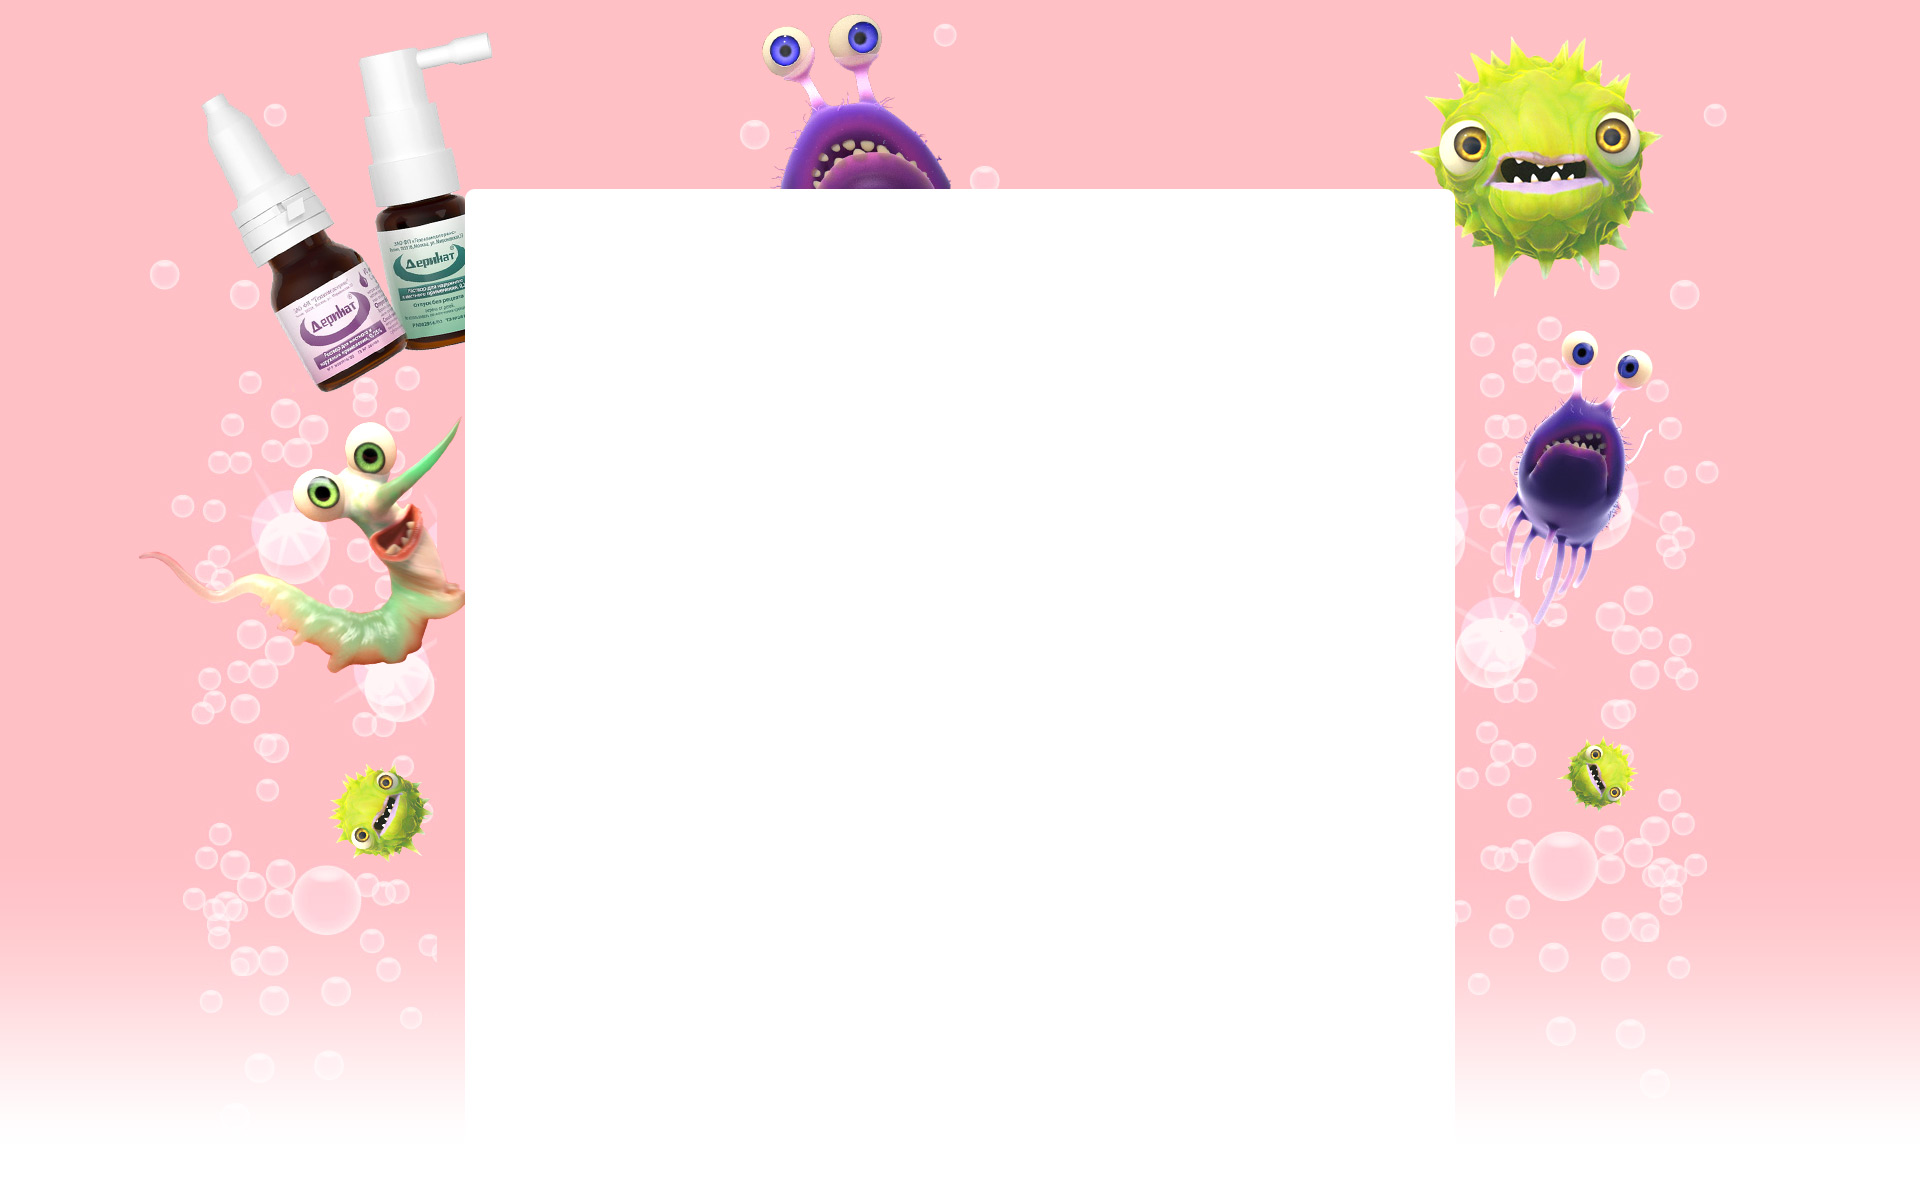
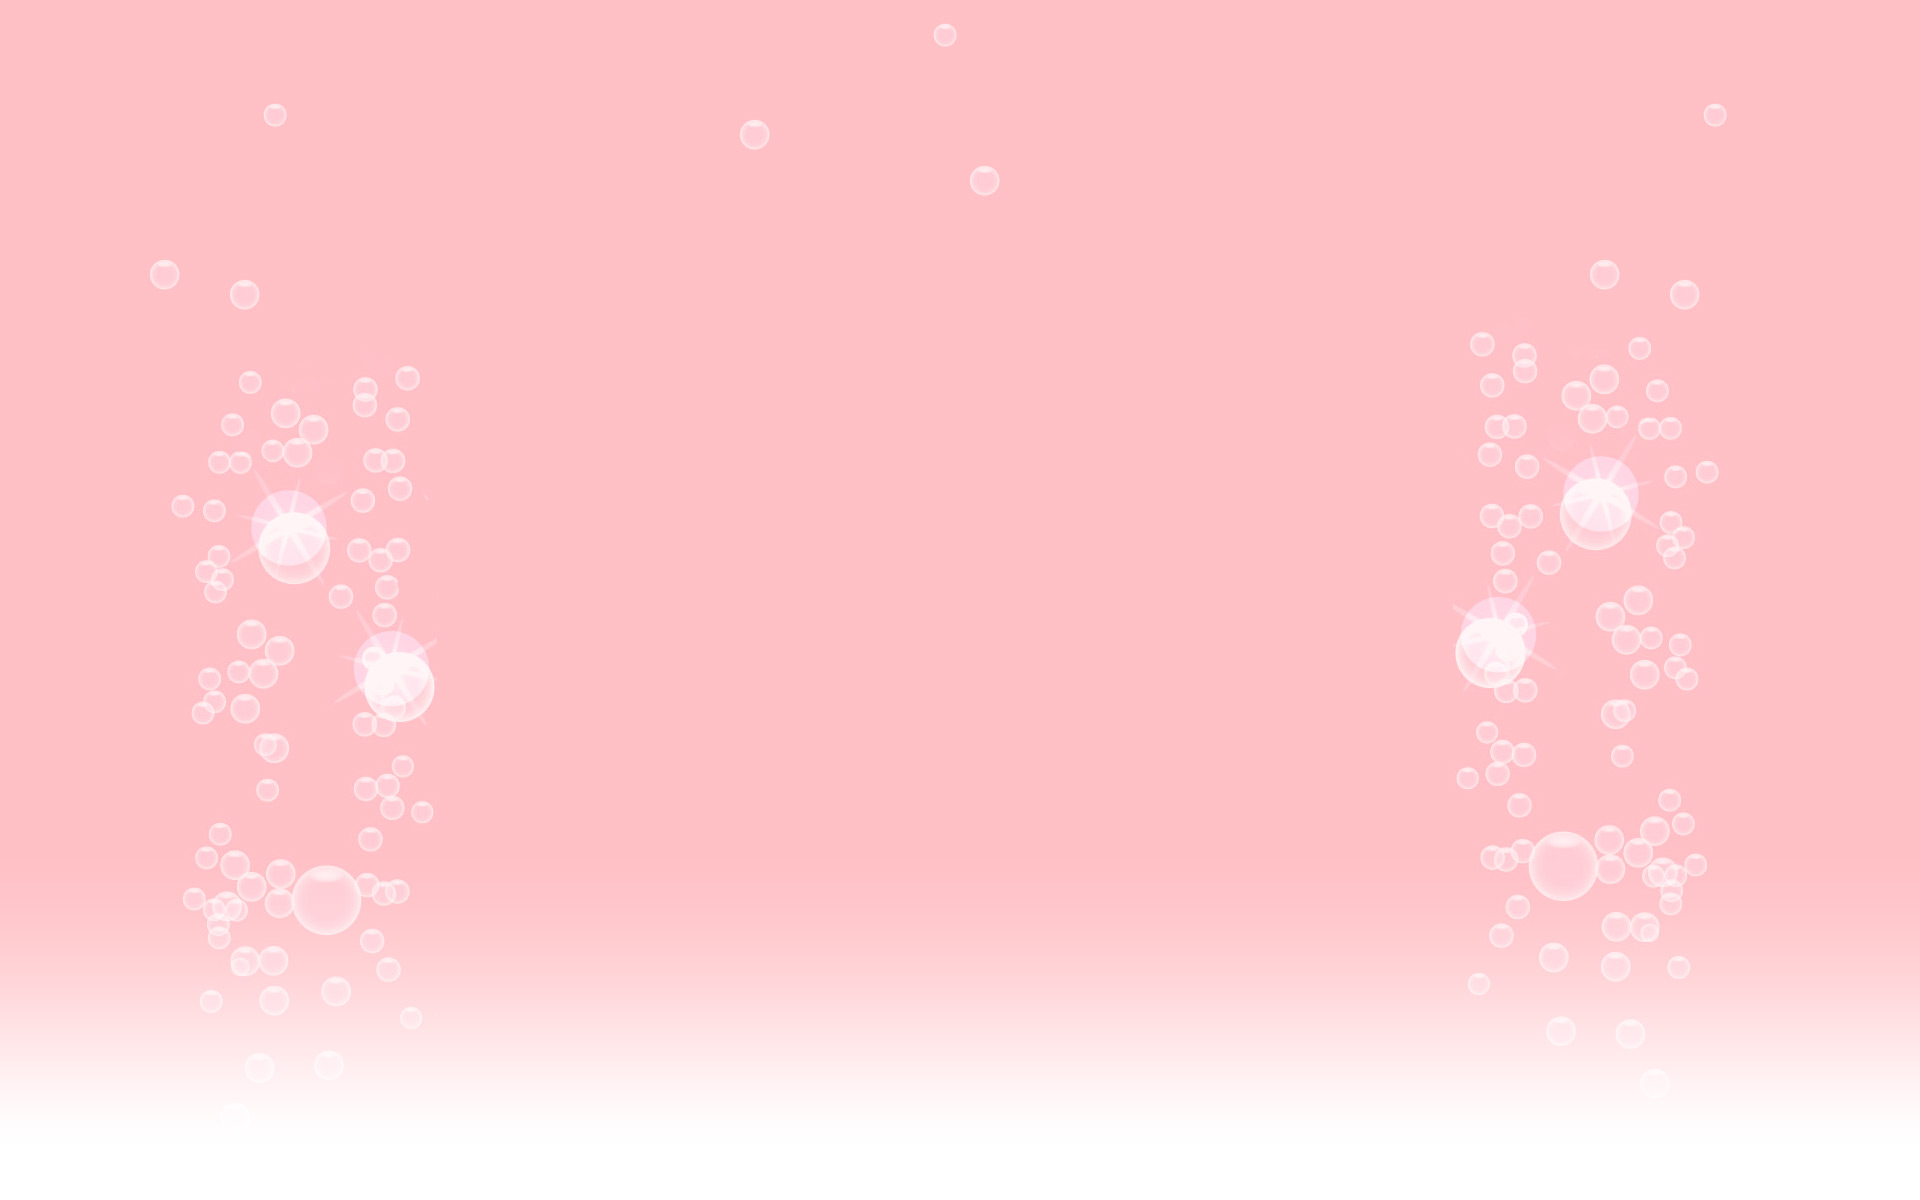
responsive

diff --git a/src/sass/main.scss b/src/sass/main.scss
@@ -16,6 +16,61 @@
 	&__section{
 		//position: relative;
 	}
+
+	&__image{
+		position: absolute;
+		display: block;
+		
+		&--1{
+			top: 100px;	
+			left: 50%;
+			margin-left: -870px;
+			width: 357px;
+			transform-origin: 100% 0;
+
+			@media (max-width: 1400px){
+				margin-left: -770px;
+			}
+		}
+
+		&--2{
+			top: 20px;	
+			left: 50%;
+			margin-left: 470px;	
+			transform-origin: 0 0;
+
+			@media (max-width: 1400px){
+				margin-left: 400px;	
+			}
+		}
+
+		@media (max-width: 1540px){
+			transform: scale(.6);
+		}
+
+		@media (max-width: 1200px){
+			transform: scale(.6);
+		}
+
+		@media (max-width: 1100px){
+			display: none;
+		}
+	}
+
+	&__content{
+		position: relative;
+		max-width: 1000px;
+		padding: 0 0;
+		margin: 0 auto 0;
+
+		@media (max-width: 1400px){
+			max-width: 800px;
+		}
+
+		@media (max-width: 1100px){
+			max-width: 940px;
+		}
+	}
 }
 
 /* ==========================================================================
@@ -25,10 +80,16 @@
 .section{
 	padding: 30px 0 30px;
 
+	&--bg{
+		background: #fff;
+		border-radius: 10px 10px 0 0;
+	}
+
+
 	&__wrap{
 		@include clearfix;
 		max-width: 960px;
-		padding: 0 10px;
+		padding: 0 20px;
 		margin: auto;
 	}
 
@@ -44,6 +105,12 @@
 	}
 }
 
+/* ==========================================================================
+ * section
+ * ========================================================================== */
+
+
+
 
 /* ==========================================================================
  * header
@@ -51,6 +118,25 @@
 .header{
 	padding: 10px 0 10px;
 	height: 189px;
+	position: relative;
+	overflow: hidden;
+	@media (max-width: 1100px){
+		overflow: visible;
+	}
+
+	&:after{
+		content: url(../images/pers/1.png);
+		position: absolute;
+		bottom: -3px;
+		left: 60%;
+
+		@media (max-width: 1100px){
+			content: url(../images/pers/4.png);
+			left: 65%;
+			bottom: auto;
+			top: 5px;
+		}
+	}
 
 	&__logo-placeholder{
 		margin: 0 0 0 45px;
@@ -76,6 +162,10 @@
 
 	&__list{
 		margin: 0 -6% -30px 0;
+
+		@media (max-width: 1200px){
+			margin-right: 0;
+		}
 	}
 
 	&__item{
@@ -83,6 +173,11 @@
 		vertical-align: top;
 		width: 46%;
 		margin: 0 1.5% 30px 0;
+
+		@media (max-width: 1200px){
+			width: 100%;
+			margin-right: 0;
+		}
 	}
 }
 
@@ -100,6 +195,9 @@
 		margin: 0 0 20px;
 		overflow: hidden;
 		height: 250px;
+		@media (max-width: 1200px){
+			height: auto;
+		}
 	}
 
 	&__image{

diff --git a/src/js/index.js b/src/js/index.js
@@ -6,12 +6,18 @@ import ReactDOM from 'react-dom';
 import configureStore from './store/configureStore';
 import Root from './components/Root';
 
-const store = configureStore(); 
+const comments = document.getElementById('comments');
 
-ReactDOM.render(
-	<Root store={store} />,
-	document.getElementById('comments')
-);
+if (comments){
+
+	const store = configureStore(); 
+	
+	ReactDOM.render(
+		<Root store={store} />,
+		comments
+	);
+
+}
 
 
 

diff --git a/src/html/common/foot.html b/src/html/common/foot.html
@@ -1,8 +1,7 @@
 
+		</div><!-- /.container__content -->
 
 	</div> <!-- end .container -->
-
-	@@include("../common/modals.html", {})
 
 	<script src="https://ad.csdnevnik.ru/special/prodaction/OAuth2/hello.min.js"></script>
 	<!-- <script src="assets/js/html2canvas.js"></script> -->

diff --git a/src/html/common/head.html b/src/html/common/head.html
@@ -44,3 +44,8 @@
 
 	<div class="container">
 
+		<img src="assets/images/pers/2.png" alt="" class="container__image container__image--1">
+		<img src="assets/images/pers/3.png" alt="" class="container__image container__image--2">
+
+		<div class="container__content">
+

diff --git a/src/sass/global.scss b/src/sass/global.scss
@@ -3,7 +3,7 @@
  * ========================================================================== */
 
 html{
-	//min-width: 1000px;
+	min-width: 1000px;
 	-webkit-font-smoothing: antialiased;
 	text-size-adjust: none;
 	font-size: 16px;

diff --git a/src/html/pages/articles.html b/src/html/pages/articles.html
@@ -1,4 +1,4 @@
-<section class="container__section section articles" id="articles">
+<section class="container__section section section--bg articles" id="articles">
 	
 	<div class="section__wrap articles__wrap">
 

diff --git a/src/html/pages/article-1.html b/src/html/pages/article-1.html
@@ -1,4 +1,4 @@
-<section class="container__section section article" id="article">
+<section class="container__section section section--bg article" id="article">
 	
 	<div class="section__wrap article__wrap">
 

diff --git a/src/html/pages/article-2.html b/src/html/pages/article-2.html
@@ -1,4 +1,4 @@
-<section class="container__section section article" id="article">
+<section class="container__section section section--bg article" id="article">
 	
 	<div class="section__wrap article__wrap">
 

diff --git a/src/html/pages/article-3.html b/src/html/pages/article-3.html
@@ -1,4 +1,4 @@
-<section class="container__section section article" id="article">
+<section class="container__section section section--bg article" id="article">
 	
 	<div class="section__wrap article__wrap">
 

diff --git a/src/html/pages/article-4.html b/src/html/pages/article-4.html
@@ -1,4 +1,4 @@
-<section class="container__section section article" id="article">
+<section class="container__section section section--bg article" id="article">
 	
 	<div class="section__wrap article__wrap">
 
